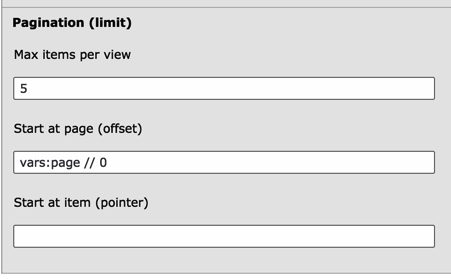
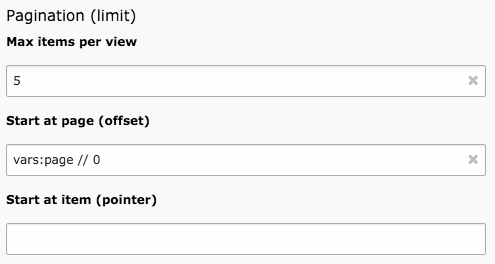
[TASK] Release version 2.0.0
Also update screenshots in documentation.

Resolves: #75669
Releases: 2.0

Changed region(s): [[0.0, 0.0, 1.0, 1.0]]

diff --git a/ext_emconf.php b/ext_emconf.php
@@ -3,7 +3,7 @@
 /*********************************************************************
 * Extension configuration file for ext "datafilter".
 *
-* Generated by ext 27-02-2015 16:43 UTC
+* Generated by ext 15-04-2016 13:59 UTC
 *
 * https://github.com/t3elmar/Ext
 *********************************************************************/
@@ -19,25 +19,25 @@ $EM_CONF[$_EXTKEY] = array (
   'createDirs' => '',
   'clearCacheOnLoad' => 0,
   'author_company' => '',
-  'version' => '2.0.0-dev',
-  'constraints' =>
+  'version' => '2.0.0',
+  'constraints' => 
   array (
-    'depends' =>
+    'depends' => 
     array (
-      'typo3' => '6.2.0-7.99.99',
+      'typo3' => '7.6.0-7.99.99',
       'tesseract' => '2.0.0-0.0.0',
-      'expressions' => '',
+      'expressions' => '2.0.0-0.0.0',
     ),
-    'conflicts' =>
+    'conflicts' => 
     array (
     ),
-    'suggests' =>
+    'suggests' => 
     array (
     ),
   ),
-  '_md5_values_when_last_written' => 'a:32:{s:9:"ChangeLog";s:4:"beab";s:10:"README.txt";s:4:"3afe";s:23:"class.tx_datafilter.php";s:4:"4791";s:16:"ext_autoload.php";s:4:"5d11";s:12:"ext_icon.gif";s:4:"bec1";s:17:"ext_localconf.php";s:4:"d3ee";s:14:"ext_tables.php";s:4:"5fc0";s:14:"ext_tables.sql";s:4:"972a";s:37:"locallang_csh_txdatafilterfilters.xml";s:4:"7abd";s:16:"locallang_db.xml";s:4:"6a53";s:7:"tca.php";s:4:"5478";s:26:"Documentation/Includes.txt";s:4:"c83c";s:23:"Documentation/Index.rst";s:4:"ed04";s:26:"Documentation/Settings.yml";s:4:"fe21";s:34:"Documentation/Developers/Index.rst";s:4:"58c9";s:45:"Documentation/Images/DataFilterGeneralTab.png";s:4:"fe46";s:58:"Documentation/Images/DataFilterPaginationConfiguration.png";s:4:"b1c6";s:45:"Documentation/Images/DataFilterSessionTab.png";s:4:"967c";s:36:"Documentation/Introduction/Index.rst";s:4:"78ba";s:37:"Documentation/KnownProblems/Index.rst";s:4:"83ab";s:28:"Documentation/User/Index.rst";s:4:"f743";s:40:"Documentation/User/FilterCache/Index.rst";s:4:"979f";s:48:"Documentation/User/FilterConfiguration/Index.rst";s:4:"aa4e";s:40:"Documentation/User/InputScreen/Index.rst";s:4:"8543";s:35:"Documentation/User/Limits/Index.rst";s:4:"133f";s:50:"Documentation/User/OrderingConfiguration/Index.rst";s:4:"b21c";s:43:"Documentation/User/SessionStorage/Index.rst";s:4:"af75";s:66:"interfaces/interface.tx_datafilter_postprocessEmptyFilterCheck.php";s:4:"9a58";s:56:"interfaces/interface.tx_datafilter_postprocessfilter.php";s:4:"4878";s:35:"res/icons/add_datafilter_wizard.gif";s:4:"8a58";s:40:"res/icons/icon_tx_datafilter_filters.gif";s:4:"dd56";s:42:"tests/tx_datafilter_configuration_Test.php";s:4:"789d";}',
+  '_md5_values_when_last_written' => 'a:33:{s:9:"ChangeLog";s:4:"8e32";s:11:"LICENSE.txt";s:4:"6404";s:10:"README.txt";s:4:"3afe";s:13:"composer.json";s:4:"a8d1";s:12:"ext_icon.png";s:4:"bffb";s:17:"ext_localconf.php";s:4:"8d19";s:14:"ext_tables.php";s:4:"a1ee";s:14:"ext_tables.sql";s:4:"82a5";s:48:"Classes/PostprocessEmptyFilterCheckInterface.php";s:4:"2b47";s:38:"Classes/PostprocessFilterInterface.php";s:4:"38f3";s:32:"Classes/Component/DataFilter.php";s:4:"376a";s:43:"Configuration/TCA/tx_datafilter_filters.php";s:4:"d110";s:26:"Documentation/Includes.txt";s:4:"c83c";s:23:"Documentation/Index.rst";s:4:"ed04";s:26:"Documentation/Settings.yml";s:4:"7a44";s:34:"Documentation/Developers/Index.rst";s:4:"9711";s:45:"Documentation/Images/DataFilterGeneralTab.png";s:4:"77aa";s:58:"Documentation/Images/DataFilterPaginationConfiguration.png";s:4:"9b27";s:45:"Documentation/Images/DataFilterSessionTab.png";s:4:"637f";s:36:"Documentation/Introduction/Index.rst";s:4:"38ee";s:37:"Documentation/KnownProblems/Index.rst";s:4:"83ab";s:28:"Documentation/User/Index.rst";s:4:"f743";s:40:"Documentation/User/FilterCache/Index.rst";s:4:"979f";s:48:"Documentation/User/FilterConfiguration/Index.rst";s:4:"aa4e";s:40:"Documentation/User/InputScreen/Index.rst";s:4:"8543";s:35:"Documentation/User/Limits/Index.rst";s:4:"133f";s:50:"Documentation/User/OrderingConfiguration/Index.rst";s:4:"780d";s:43:"Documentation/User/SessionStorage/Index.rst";s:4:"af75";s:64:"Resources/Private/Language/locallang_csh_txdatafilterfilters.xlf";s:4:"97cf";s:43:"Resources/Private/Language/locallang_db.xlf";s:4:"077d";s:46:"Resources/Public/Icons/AddDataFilterWizard.png";s:4:"fead";s:37:"Resources/Public/Icons/DataFilter.png";s:4:"411e";s:39:"Tests/Unit/ConfigurationParsingTest.php";s:4:"f710";}',
   'user' => 'francois',
-  'comment' => 'Corrected bug in error output',
+  'comment' => 'Verified compatibility with TYPO3 CMS 7; refactored using namespaces.',
 );
 
 ?>
